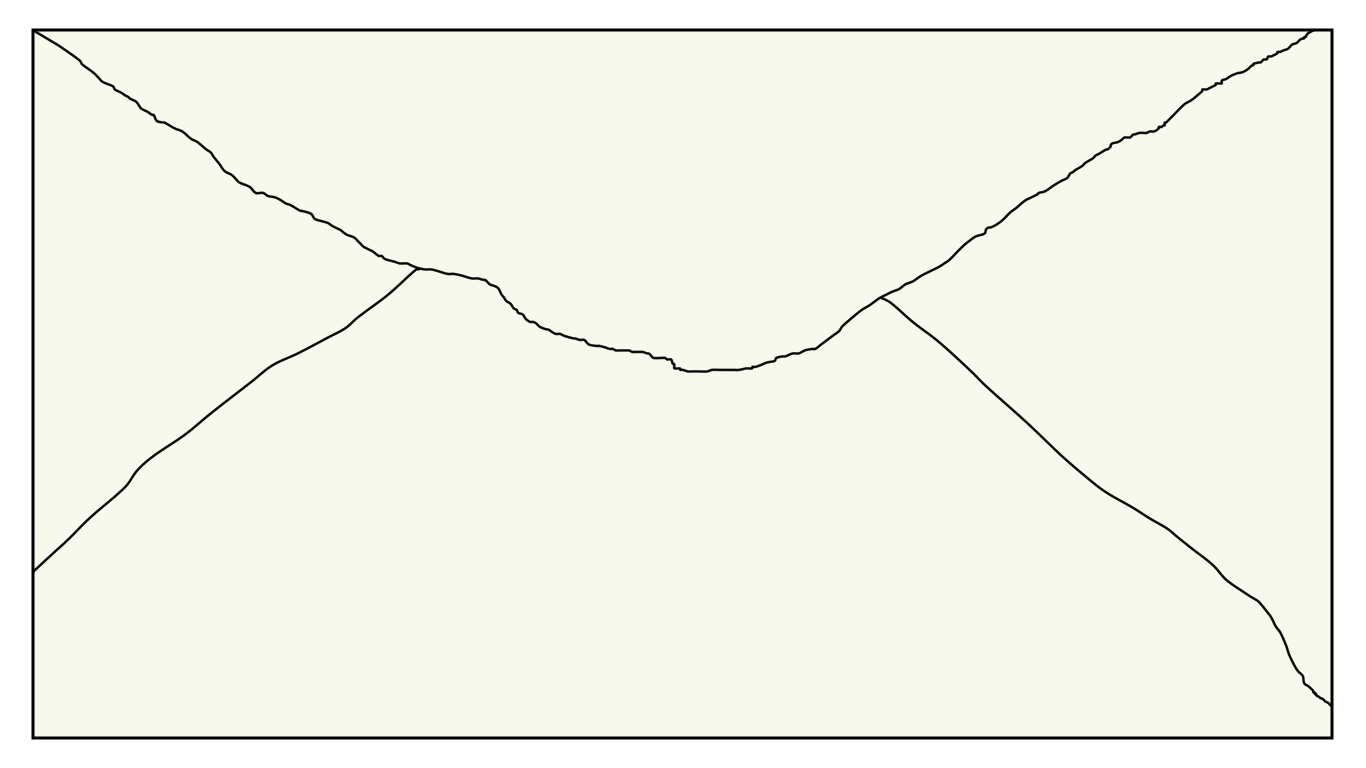
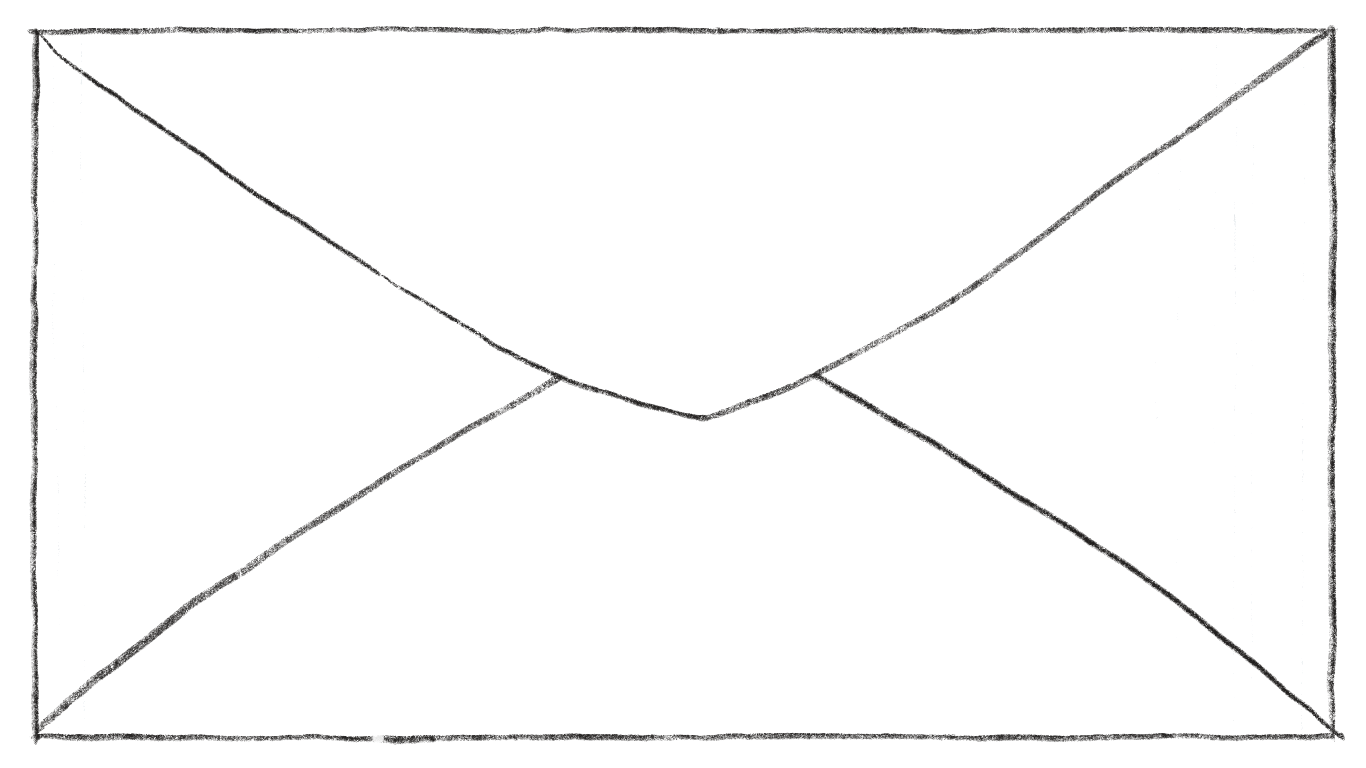
implemented almost all animated items!

diff --git a/src/scenes/Load.js b/src/scenes/Load.js
@@ -18,13 +18,13 @@ class Load extends Phaser.Scene {
             // create anims for each item
             let objs = roomData[i].items;
             for (let j = 0; j < objs.length; j++) {
-                console.log(this.anims.generateFrameNames('items_atlas', {
-                        prefix: objs[j].name,
-                        start: 1,
-                        end: 2,
-                        suffix: '',
-                        zeroPad: 0 
-                    }))
+                // console.log(this.anims.generateFrameNames('items_atlas', {
+                //         prefix: objs[j].name,
+                //         start: 1,
+                //         end: 2,
+                //         suffix: '',
+                //         zeroPad: 0 
+                //     }))
                 this.anims.create({
                     key: objs[j].animKey,
                     frames: this.anims.generateFrameNames('items_atlas', {
@@ -66,9 +66,9 @@ class Load extends Phaser.Scene {
             // },
 
             // load box if currently loading tv room
-            if (roomData[i].name === "tv") {
-                this.load.image(roomData[i].box.textureKey, roomData[i].box.textureFile);
-            }
+            // if (roomData[i].name === "tv") {
+            //     this.load.image(roomData[i].box.textureKey, roomData[i].box.textureFile);
+            // }
 
             // create textures from rects for each transitionarea
             let transes = roomData[i].transitions;
@@ -78,6 +78,20 @@ class Load extends Phaser.Scene {
                 rt.saveTexture(transes[j].key);
             }
         }
+
+        // same for box
+            this.anims.create({
+                key: "box_anim",
+                frames: this.anims.generateFrameNames('items_atlas', {
+                    prefix: "box",
+                    start: 1,
+                    end: 2,
+                    suffix: '',
+                    zeroPad: 0 
+                }),
+                repeat: -1,
+                frameRate: 4
+            });
 
         // load ui assets
         this.load.path = './assets/ui/';

diff --git a/src/prefabs/Room.js b/src/prefabs/Room.js
@@ -16,6 +16,7 @@ class Room extends Phaser.GameObjects.Sprite {
         for (let i = 0; i < roomData.items.length; i++) {
             this.items.push(new Item(scene, this, roomData.items[i].x, roomData.items[i].y,
                 'items_atlas', 0, roomData.items[i].animKey, roomData.items[i].name, roomData.items[i].soundKey, roomData.items[i].message).setOrigin(0));
+            this.items[i].displayName = roomData.items[i].displayName;
             this.items[i].setVisible(false);
         }
 
@@ -34,7 +35,7 @@ class Room extends Phaser.GameObjects.Sprite {
         // if this room is tv view of living room, add packing box
         // (get box object in roomData that only the tv room has)
         if (roomData.name === "tv") {
-            this.box = new Box(scene, this, roomData.box.x, roomData.box.y, roomData.box.textureKey,
+            this.box = new Box(scene, this, roomData.box.x, roomData.box.y, 'items_atlas', 0, roomData.box.animKey,
                 roomData.box.cantPackMessage, roomData.box.packedMessage).setOrigin(0);
             this.box.setVisible(false);
             // console.log(this.box)
@@ -57,6 +58,7 @@ class Room extends Phaser.GameObjects.Sprite {
             // be affected by lighting
             // https://docs.phaser.io/api-documentation/class/gameobjects-lightsplugin
             this.setPipeline("Light2D");
+            this.items[0].setPipeline("Light2D");
             // add foreground not affected by lighting
             this.foreground = this.scene.add.sprite(0, 0, "houseRoom_bg_near").setOrigin(0).setDepth(-2);
             this.foreground.setVisible(false);

diff --git a/src/prefabs/Box.js b/src/prefabs/Box.js
@@ -1,7 +1,7 @@
 // tv view of living room has the box we pack everything into
 class Box extends Phaser.GameObjects.Sprite {
-     constructor(scene, room, x, y, texture, cantPackMessage, packedMessage) {
-        super(scene, x, y, texture);
+     constructor(scene, room, x, y, itemsatlas, frame, animKey, cantPackMessage, packedMessage) {
+        super(scene, x, y, itemsatlas, frame);
         scene.add.existing(this); // add to existing, displayList, updateList
         
         this.room = room;
@@ -9,7 +9,8 @@ class Box extends Phaser.GameObjects.Sprite {
         this.cantPackMessage = cantPackMessage;
         this.packedMessage = packedMessage;
 
-        this.scale = 0.5
+        // this.scale = 0.5
+        this.anims.play(animKey);
         this.setOrigin(1);
 
         this.setInteractive({useHandCursor: true, pixelPerfect: true});
@@ -58,7 +59,8 @@ class Box extends Phaser.GameObjects.Sprite {
     handleClick() {
         // show one of two popup options
         if (this.scene.heldItem.visible) {  // if holding item, pack it
-            let popup = new Popup(this.scene, this.packedMessage + this.scene.heldItem.texture.key + "...", "pack me!");
+            console.log(this.scene.heldItem)
+            let popup = new Popup(this.scene, this.packedMessage + this.scene.heldItem.displayName + "...", "pack me!");
             popup.on("popupClosed", () => {
                 this.packItem();
             });

diff --git a/src/prefabs/Item.js b/src/prefabs/Item.js
@@ -53,14 +53,14 @@ class Item extends Phaser.GameObjects.Sprite {
             this.off('pointerdown');
             this.removeInteractive();
         } else {
-            let popup = new Popup(this.scene, "Wait, I need to pack " +
-                this.scene.heldItem.name + " first...", "so true!");
+            let popup = new Popup(this.scene, ("Wait, I need to pack " + this.scene.heldItem.displayName +
+                ((this.scene.heldItem.displayName.length > 12) ? "\n" : " ") + "first..."), "so true!");
         }
     }
 
     holdItem() {   
         // give our image key to the scene's heldItem
-        this.scene.heldItem.name = this.name;
+        this.scene.heldItem.displayName = this.displayName;
         this.scene.heldItem.anims.play(this.animKey);
         this.scene.heldItem.setVisible(true);
         this.scene.heldItemSound = this.pickUpSound;

diff --git a/src/scenes/Play.js b/src/scenes/Play.js
@@ -31,7 +31,7 @@ class Play extends Phaser.Scene {
         this.itemsPacked = 0;
         // set up held item as a sprite whose image changes to whatever we picked up.
         // when not holding anything, visibile will be false and key will be null
-        this.heldItem = this.add.sprite(w * 0.75, h * 0.9, null).setOrigin(0.5);
+        this.heldItem = this.add.sprite(w * 0.75, h * 0.9, null).setOrigin(0.5).setScale(1.5);
         this.heldItem.setVisible(false);
         this.heldItemSound = null;
         // if we are in dialogue, we don't want to be able to interact with other things

diff --git a/src/prefabs/TransitionArea.js b/src/prefabs/TransitionArea.js
@@ -9,7 +9,7 @@ class TransitionArea extends Phaser.GameObjects.Sprite {
         this.nextRoom = nextRoom;
         this.LOW_ALPHA = 0.01;
         this.HIGH_ALPHA = 0.3;
-        this.setDepth(-1);  // go behind items
+        this.setDepth(0);  // go behind items
         this.setAlpha(this.LOW_ALPHA);   // hide until hovered over
 
         // wait prefabs don't have create() by default right

diff --git a/src/scenes/Menu.js b/src/scenes/Menu.js
@@ -27,6 +27,7 @@ and click to interact.\n\
                 this.cameras.main.fadeIn(250);
 
                 this.input.on("pointerdown", () => {
+                    this.sound.play("ui-sfx");
                     this.cameras.main.fadeOut(250);
                     this.cameras.main.on("camerafadeoutcomplete", () => {
                         this.scene.start('playScene');

diff --git a/src/prefabs/Popup.js b/src/prefabs/Popup.js
@@ -19,7 +19,7 @@ class Popup extends Phaser.GameObjects.Sprite {
         
         // make button
         let x = this.x + (this.width * 0.75);
-        let y = this.y + (this.height);
+        let y = this.y + (this.height) * 1.2;
         this.button = new Button(this.scene, x, y, this.buttonText);
 
         // listen for click

diff --git a/src/main.js b/src/main.js
@@ -20,5 +20,5 @@ let config = {
 let game = new Phaser.Game(config);
 
 // item counts
-const TOTAL_ITEMS = 10;
+const TOTAL_ITEMS = 13;
 const w = game.config.width, h = game.config.height;
